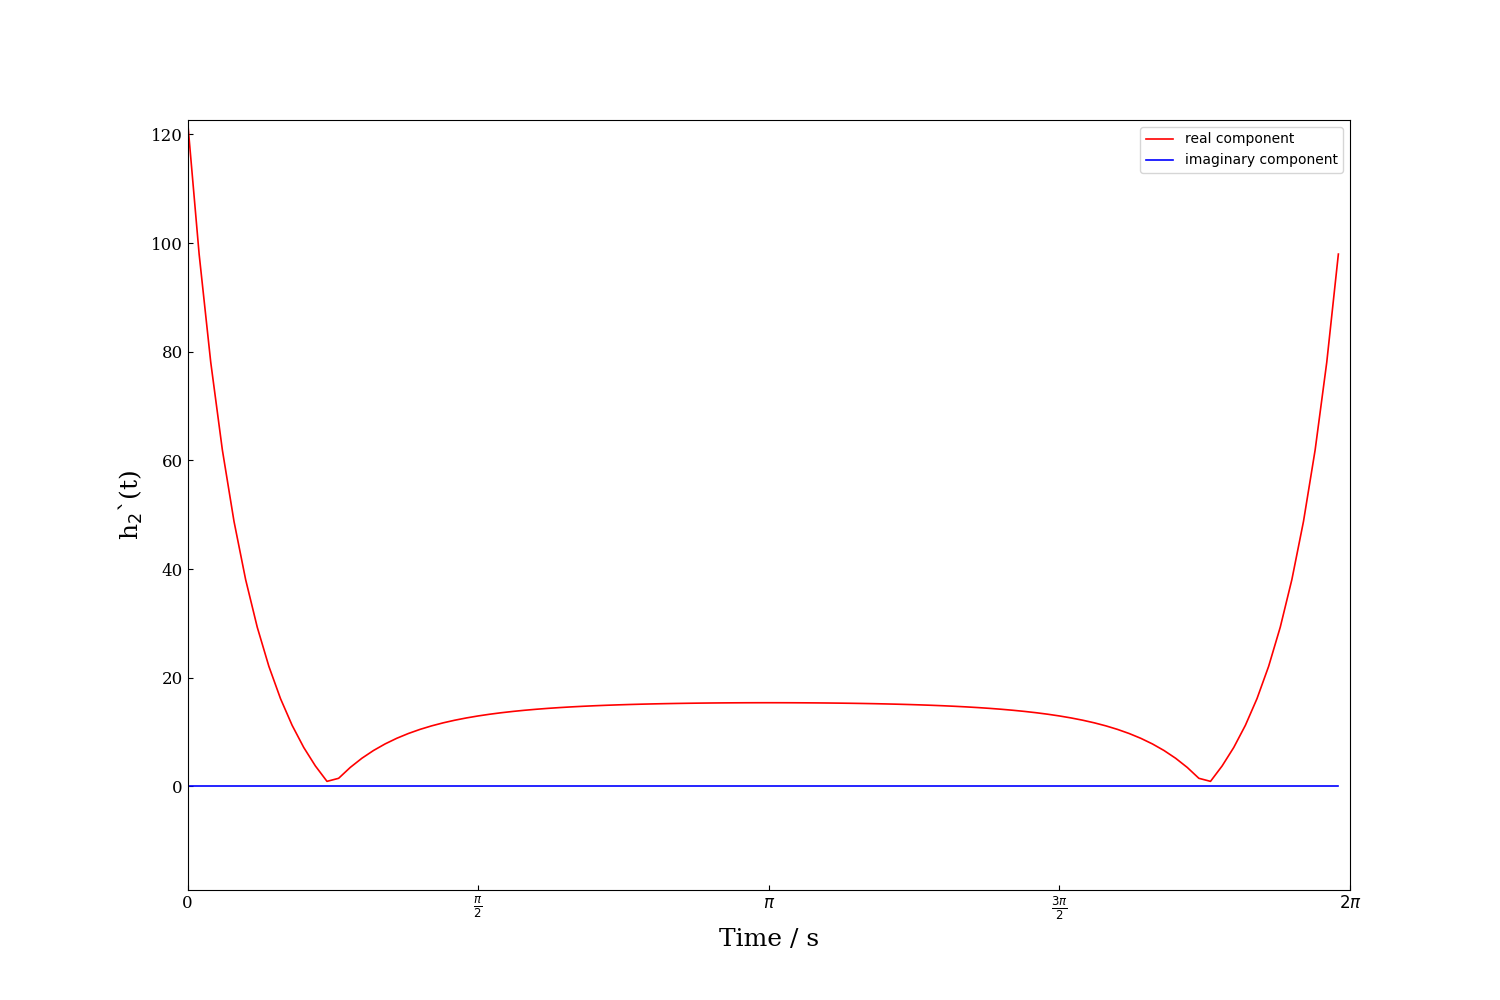
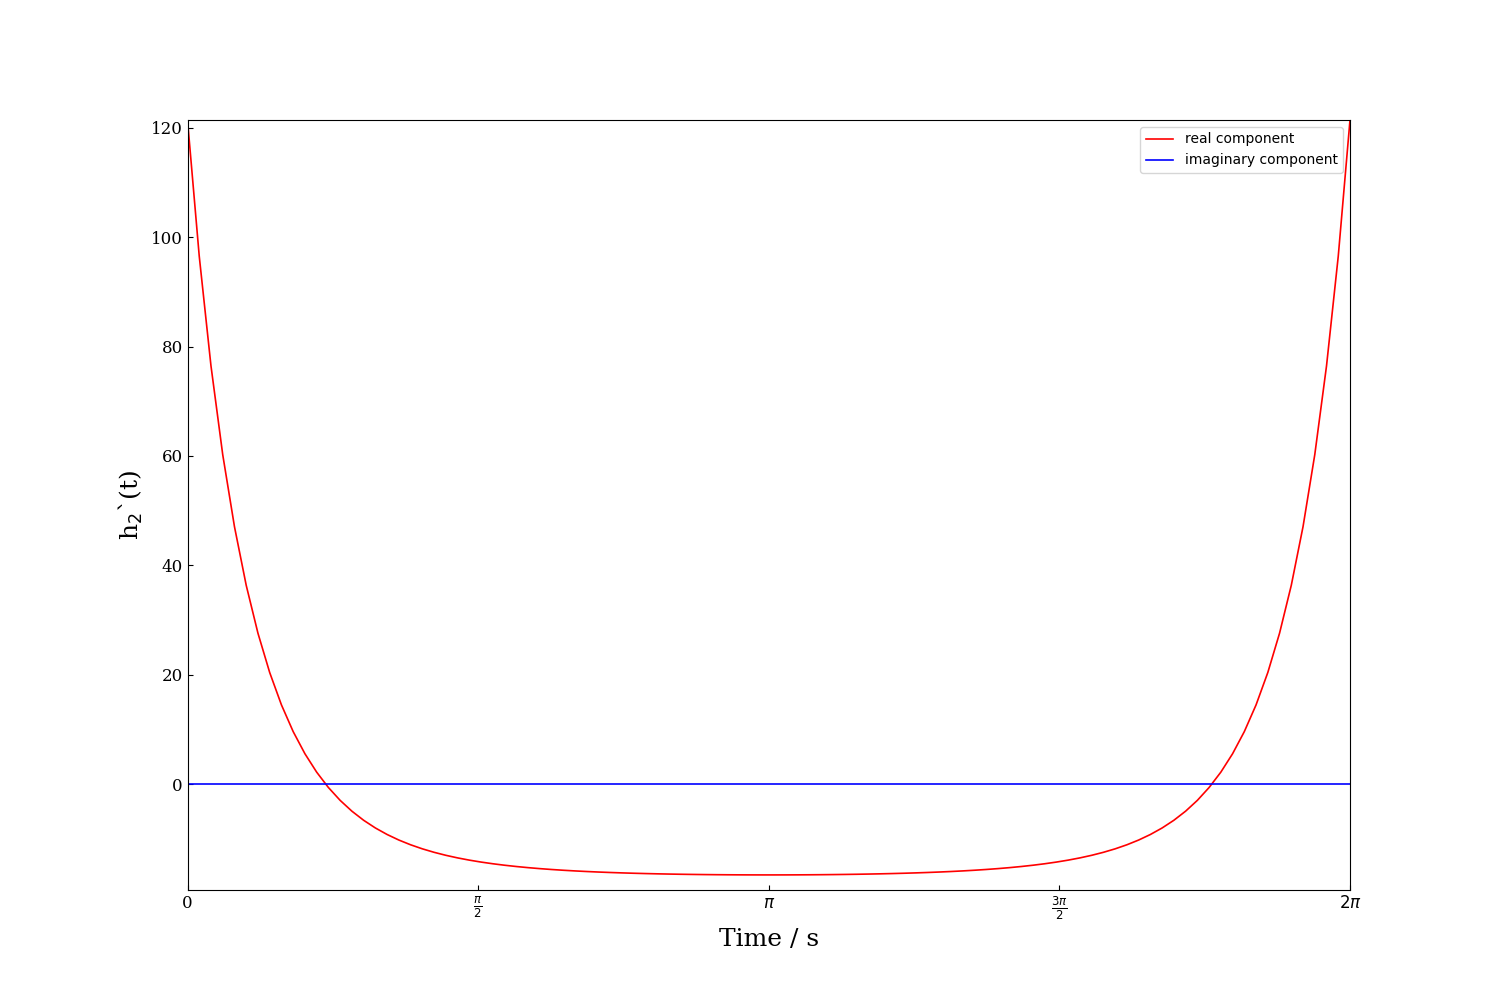
Auto Push: Updated graphs

diff --git a/build/plot_3h.py b/build/plot_3h.py
@@ -90,7 +90,7 @@ plt.show()
 
 # Plot real & imag part of h1
 plt.figure(figsize=(15, 10))
-plt.plot(h2_prime['time'], mod(h2_prime['real'], h2_prime['imag']), 'r-',
+plt.plot(h2_prime['time'], h2_prime['real'], 'r-',
          linewidth=1.2, label='real component')
 plt.plot(h2_prime['time'], h2_prime['imag'], 'b-',
          linewidth=1.2, label='imaginary component')
